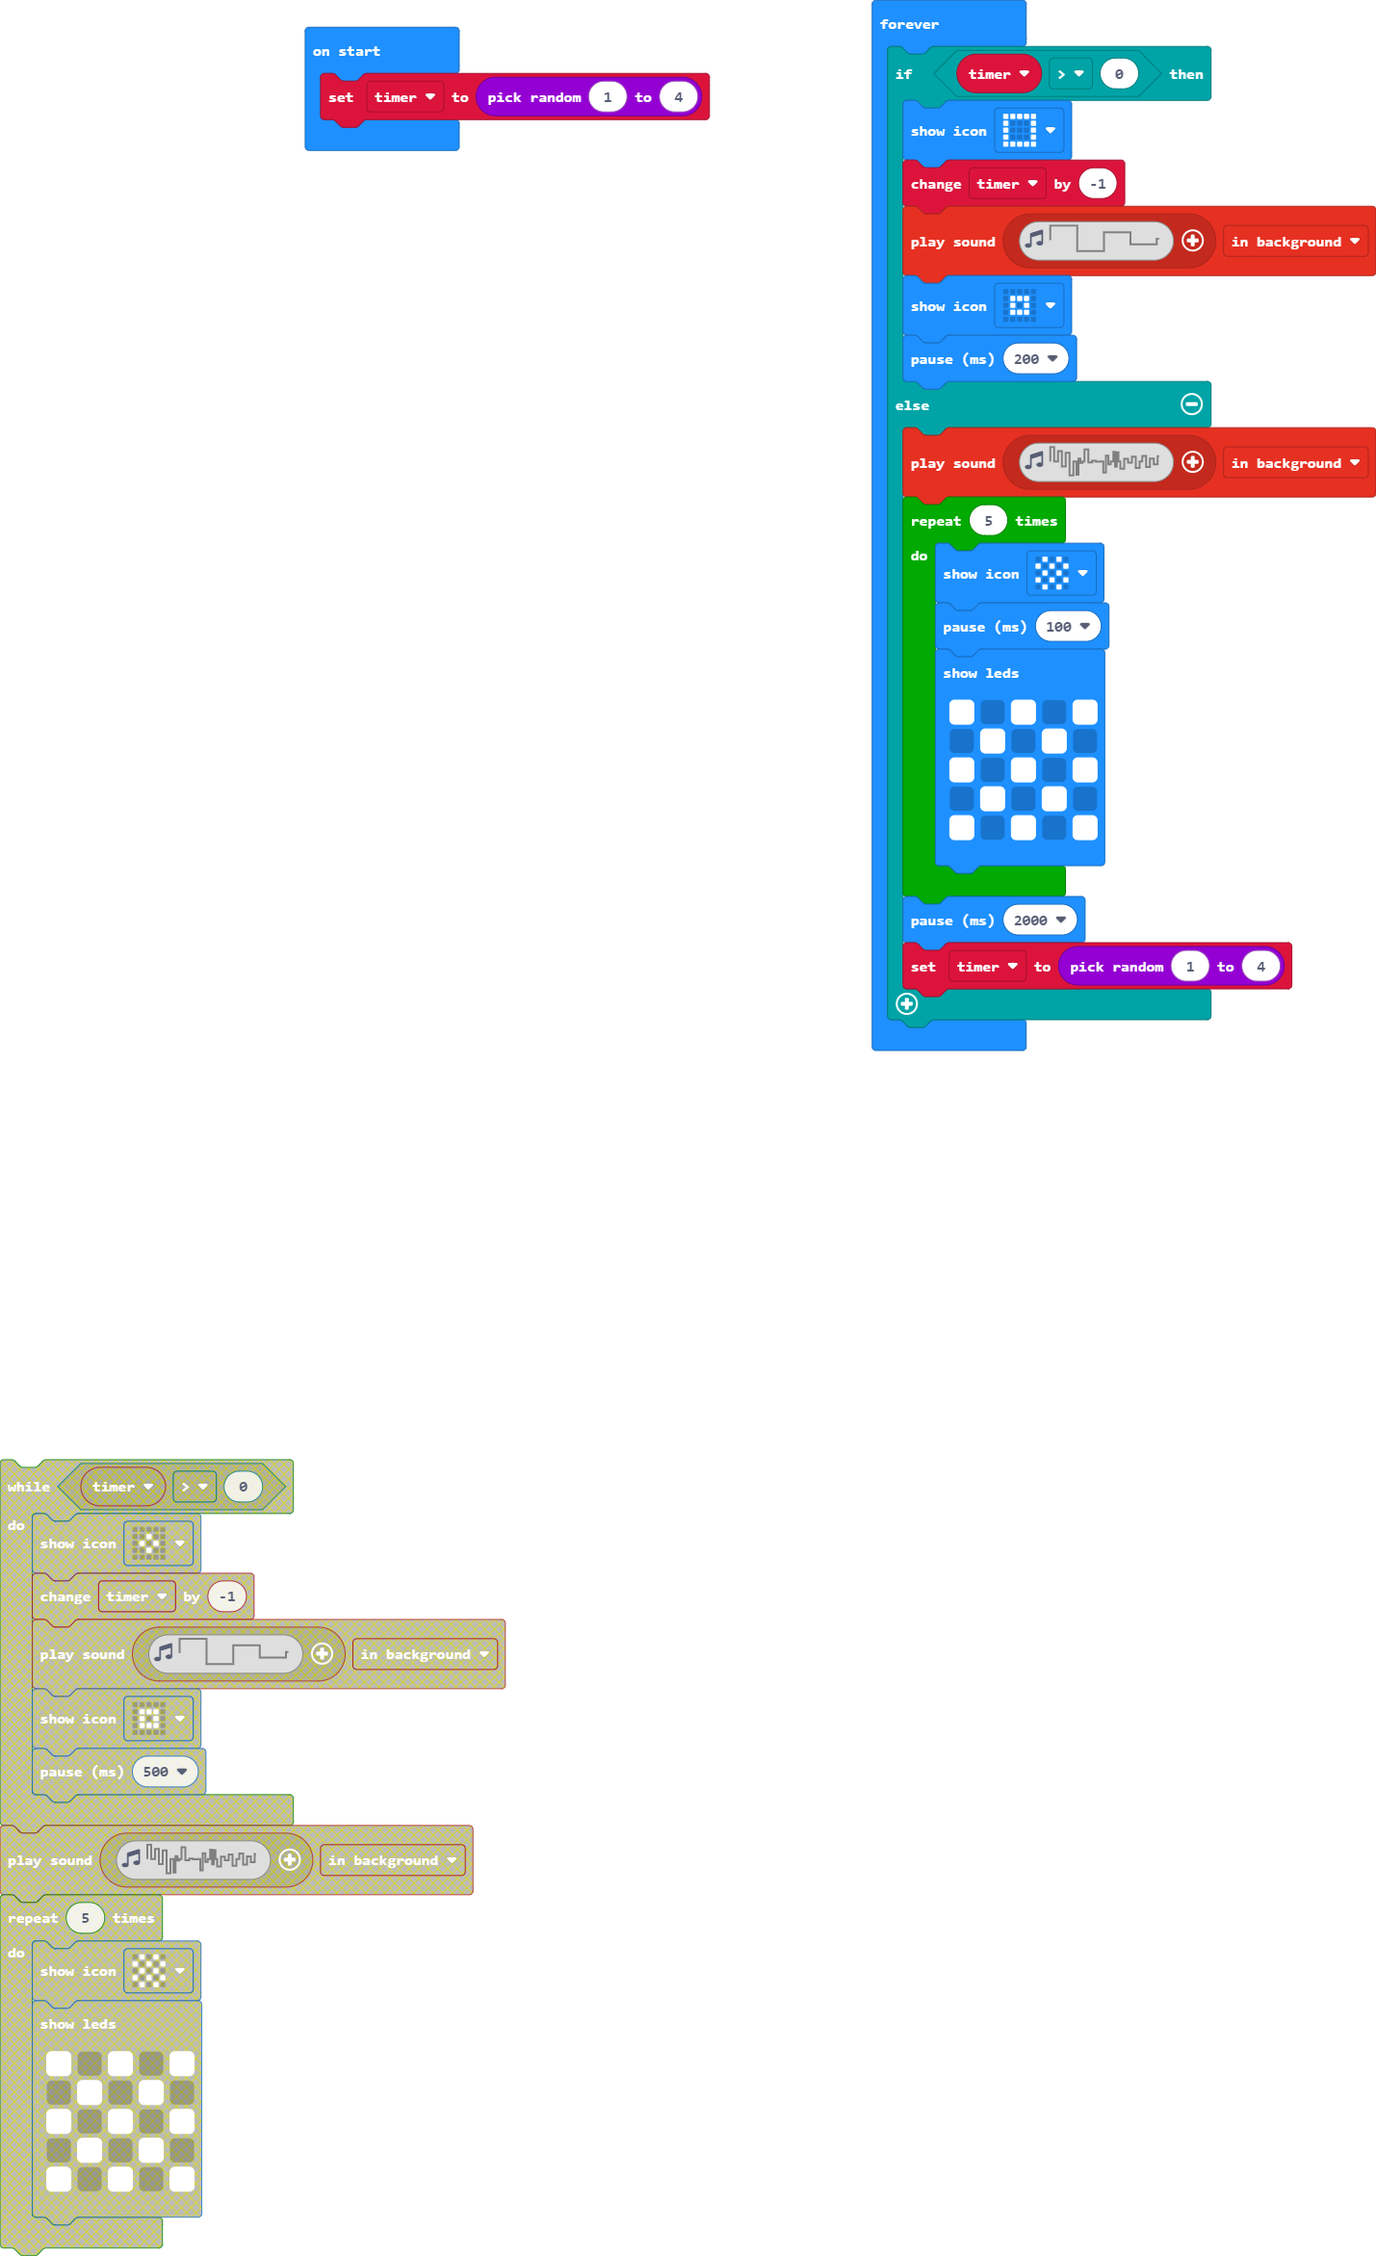
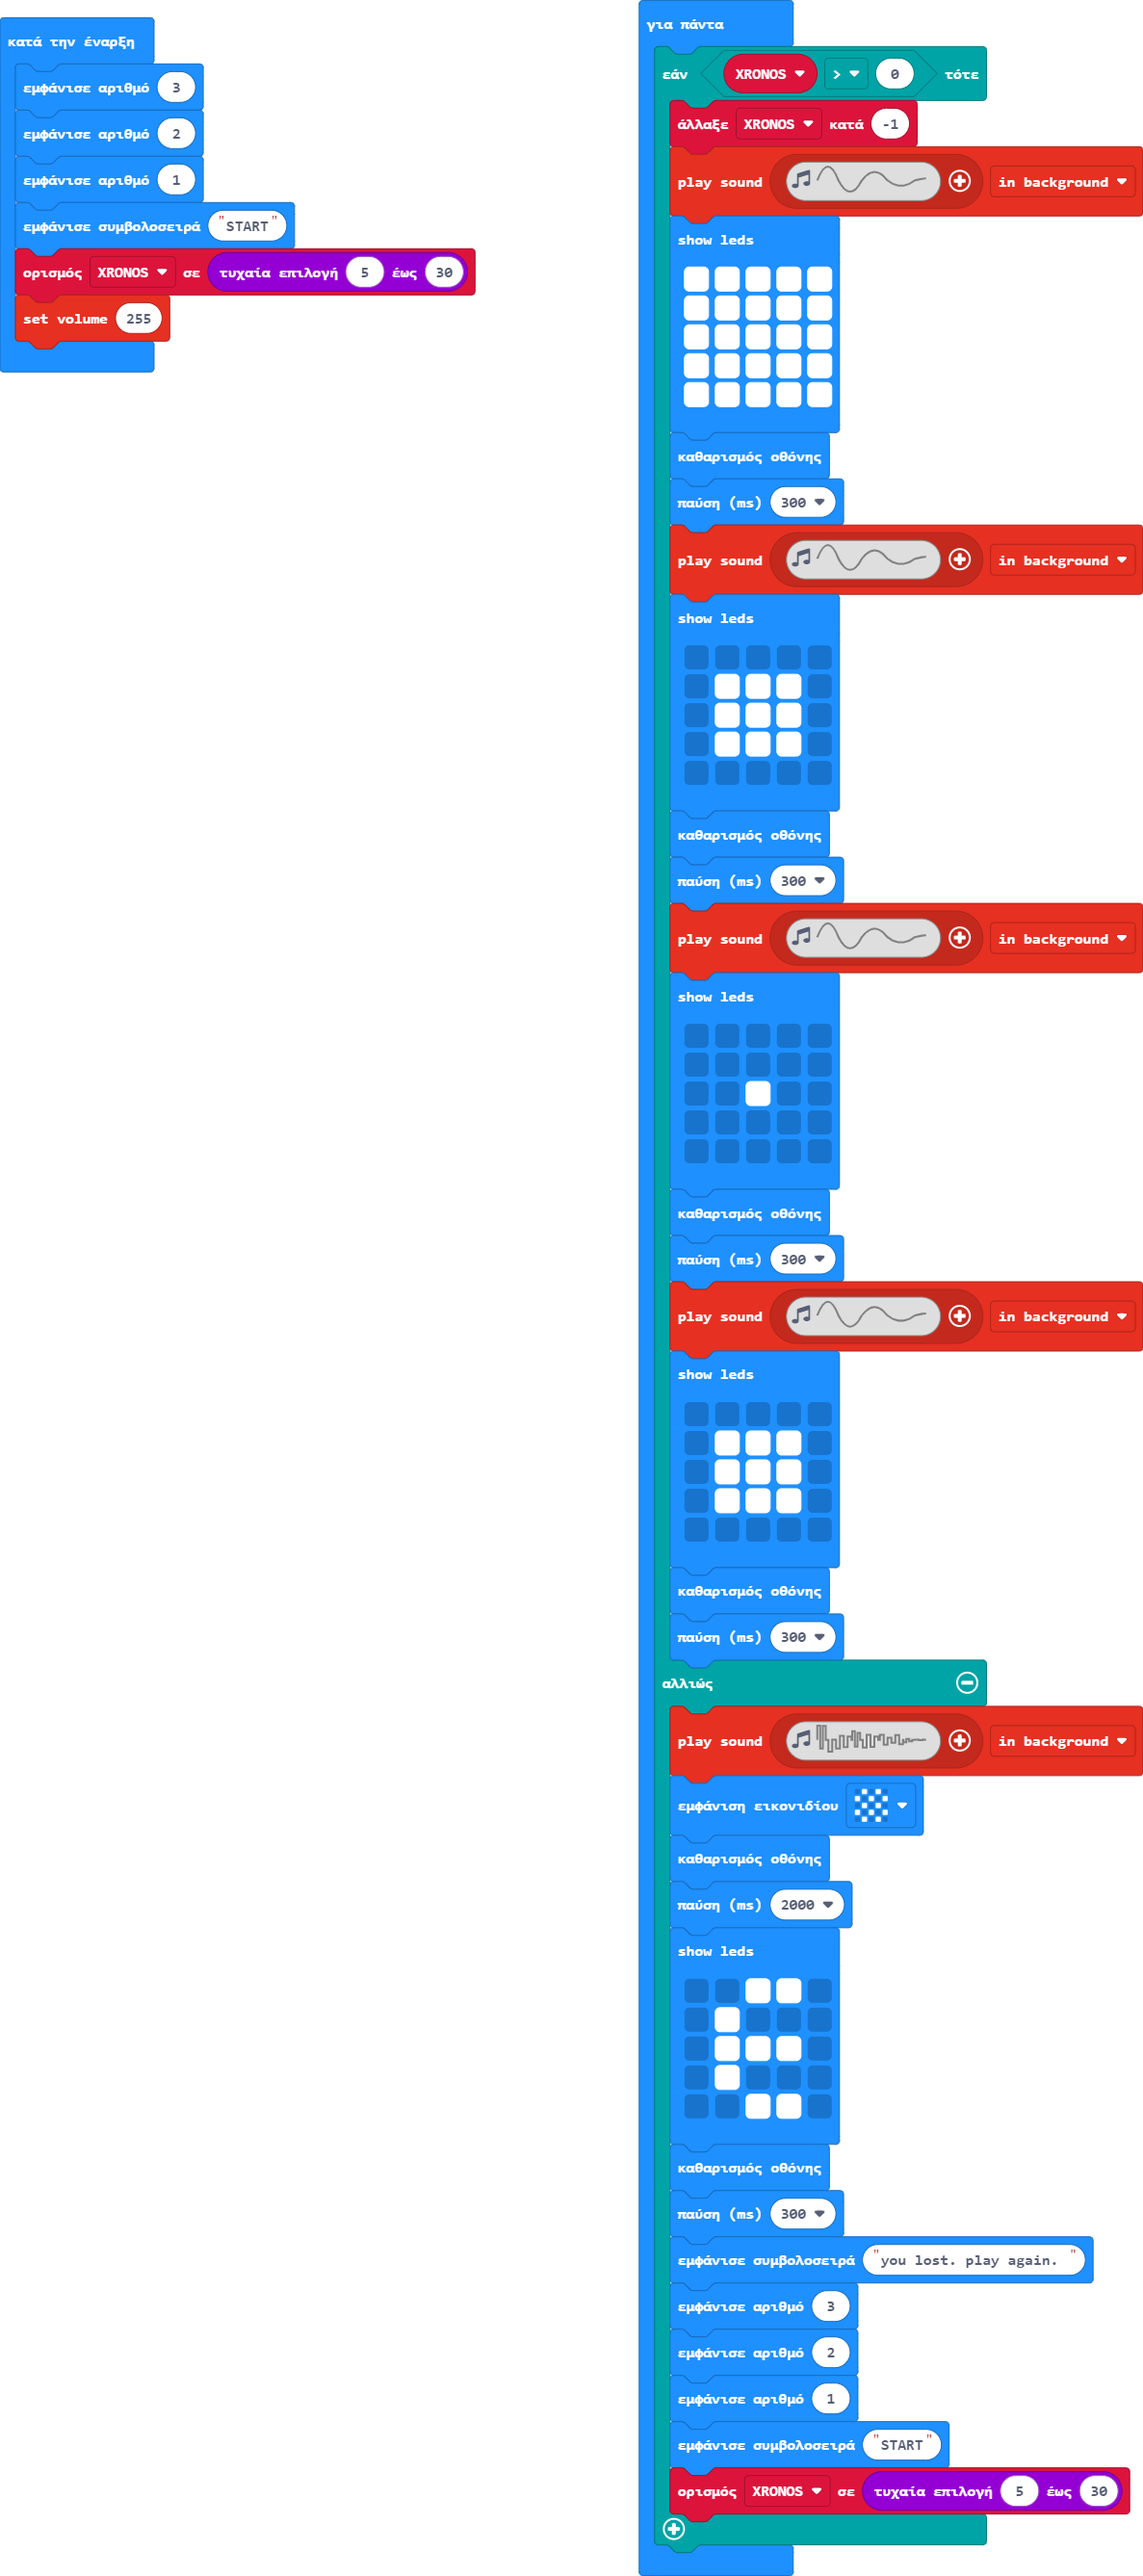
clean

diff --git a/main.ts b/main.ts
@@ -1,25 +1,71 @@
-let timer = randint(1, 4)
+basic.showNumber(3)
+basic.showNumber(2)
+basic.showNumber(1)
+basic.showString("START")
+let XRONOS = randint(5, 30)
+music.setVolume(255)
 basic.forever(function () {
-    if (timer > 0) {
-        basic.showIcon(IconNames.Square)
-        timer += -1
-        music.playSoundEffect(music.createSoundEffect(WaveShape.Square, 400, 600, 255, 0, 100, SoundExpressionEffect.Warble, InterpolationCurve.Linear), SoundExpressionPlayMode.InBackground)
-        basic.showIcon(IconNames.SmallSquare)
-        basic.pause(200)
+    if (XRONOS > 0) {
+        XRONOS += -1
+        music.playSoundEffect(music.createSoundEffect(WaveShape.Sine, 1600, 1, 255, 0, 100, SoundExpressionEffect.None, InterpolationCurve.Curve), SoundExpressionPlayMode.InBackground)
+        basic.showLeds(`
+            # # # # #
+            # # # # #
+            # # # # #
+            # # # # #
+            # # # # #
+            `)
+        basic.clearScreen()
+        basic.pause(300)
+        music.playSoundEffect(music.createSoundEffect(WaveShape.Sine, 1600, 1, 255, 0, 100, SoundExpressionEffect.None, InterpolationCurve.Curve), SoundExpressionPlayMode.InBackground)
+        basic.showLeds(`
+            . . . . .
+            . # # # .
+            . # # # .
+            . # # # .
+            . . . . .
+            `)
+        basic.clearScreen()
+        basic.pause(300)
+        music.playSoundEffect(music.createSoundEffect(WaveShape.Sine, 1600, 1, 255, 0, 100, SoundExpressionEffect.None, InterpolationCurve.Curve), SoundExpressionPlayMode.InBackground)
+        basic.showLeds(`
+            . . . . .
+            . . . . .
+            . . # . .
+            . . . . .
+            . . . . .
+            `)
+        basic.clearScreen()
+        basic.pause(300)
+        music.playSoundEffect(music.createSoundEffect(WaveShape.Sine, 1600, 1, 255, 0, 100, SoundExpressionEffect.None, InterpolationCurve.Curve), SoundExpressionPlayMode.InBackground)
+        basic.showLeds(`
+            . . . . .
+            . # # # .
+            . # # # .
+            . # # # .
+            . . . . .
+            `)
+        basic.clearScreen()
+        basic.pause(300)
     } else {
-        music.playSoundEffect(music.createSoundEffect(WaveShape.Noise, 500, 499, 255, 0, 1500, SoundExpressionEffect.None, InterpolationCurve.Linear), SoundExpressionPlayMode.InBackground)
-        for (let index = 0; index < 5; index++) {
-            basic.showIcon(IconNames.Chessboard)
-            basic.pause(100)
-            basic.showLeds(`
-                # . # . #
-                . # . # .
-                # . # . #
-                . # . # .
-                # . # . #
-                `)
-        }
+        music.playSoundEffect(music.createSoundEffect(WaveShape.Noise, 523, 1, 255, 0, 2000, SoundExpressionEffect.Warble, InterpolationCurve.Logarithmic), SoundExpressionPlayMode.InBackground)
+        basic.showIcon(IconNames.Chessboard)
+        basic.clearScreen()
         basic.pause(2000)
-        timer = randint(1, 4)
+        basic.showLeds(`
+            . . # # .
+            . # . . .
+            . # # # .
+            . # . . .
+            . . # # .
+            `)
+        basic.clearScreen()
+        basic.pause(300)
+        basic.showString("you lost. play again. ")
+        basic.showNumber(3)
+        basic.showNumber(2)
+        basic.showNumber(1)
+        basic.showString("START")
+        XRONOS = randint(5, 30)
     }
 })
